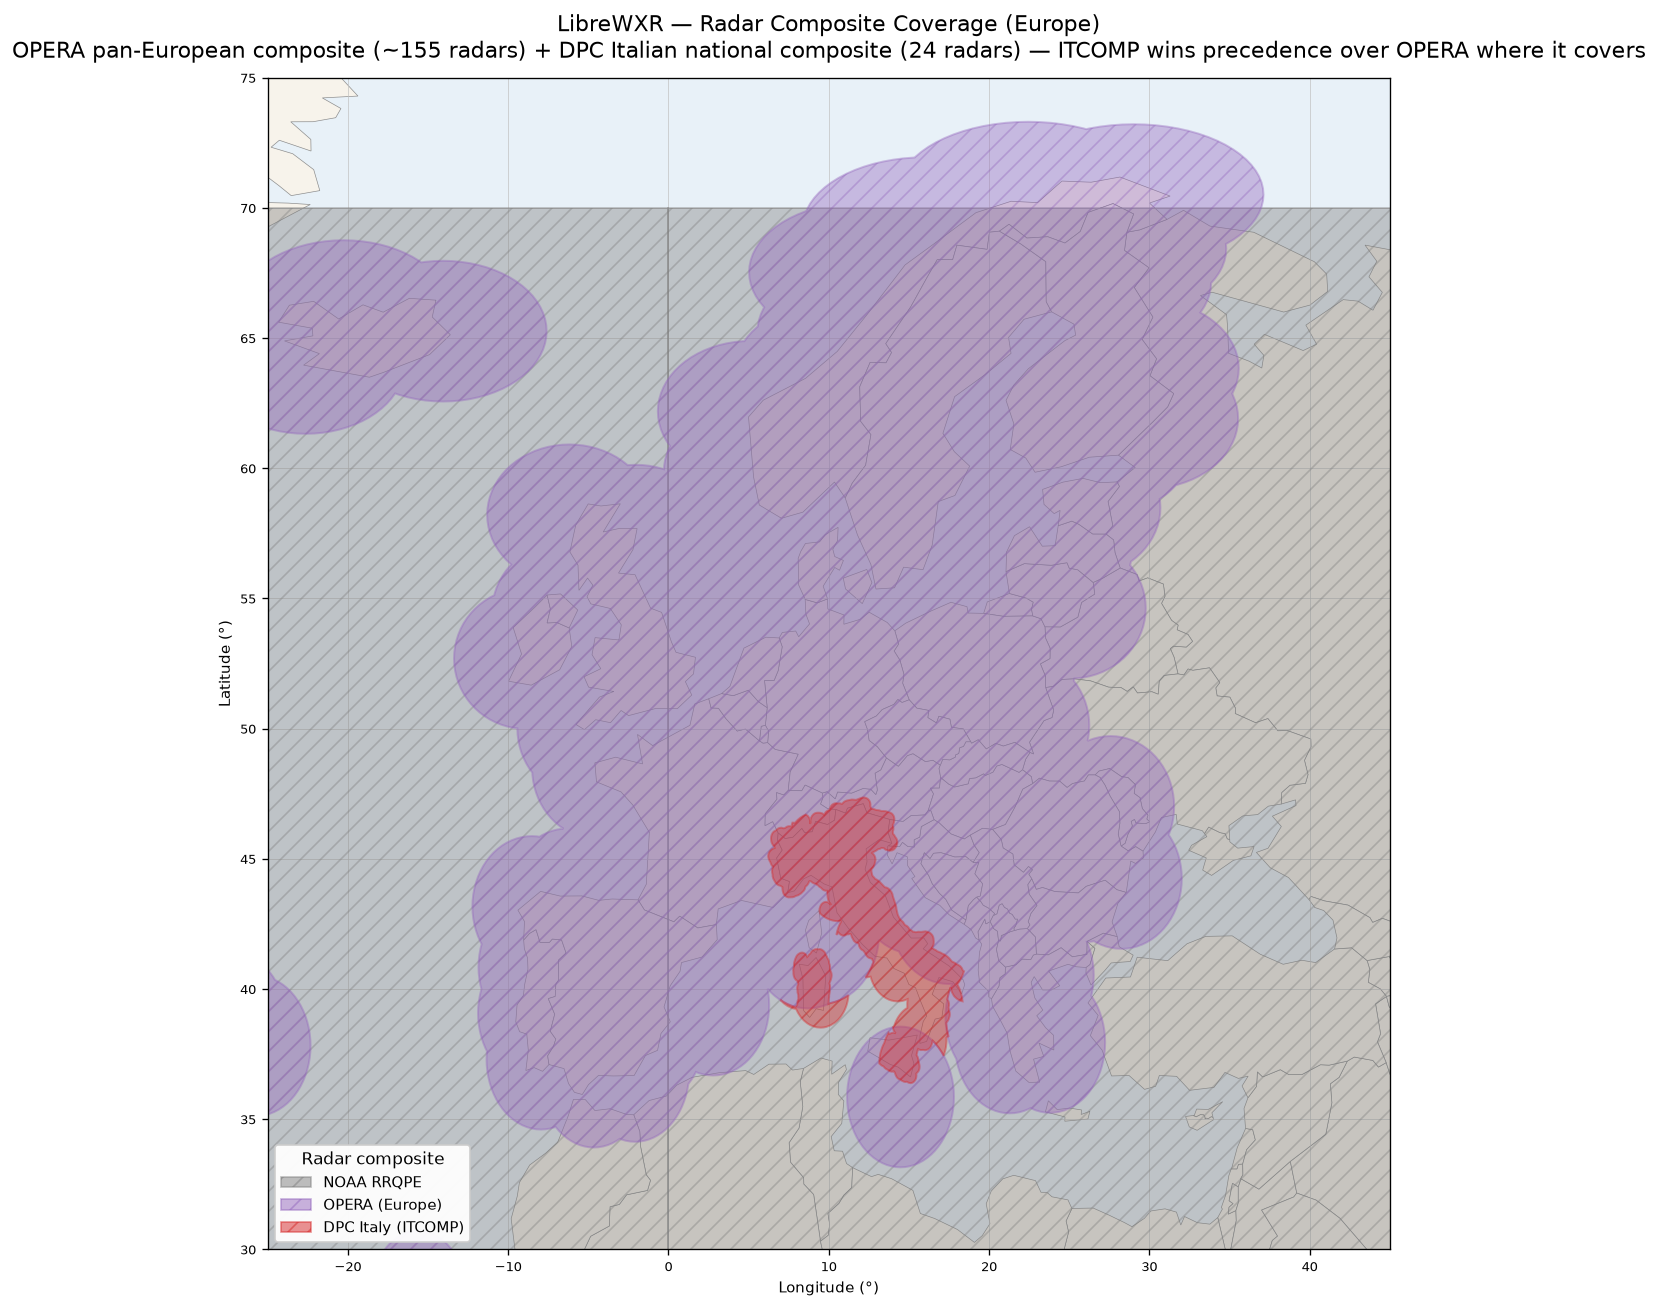
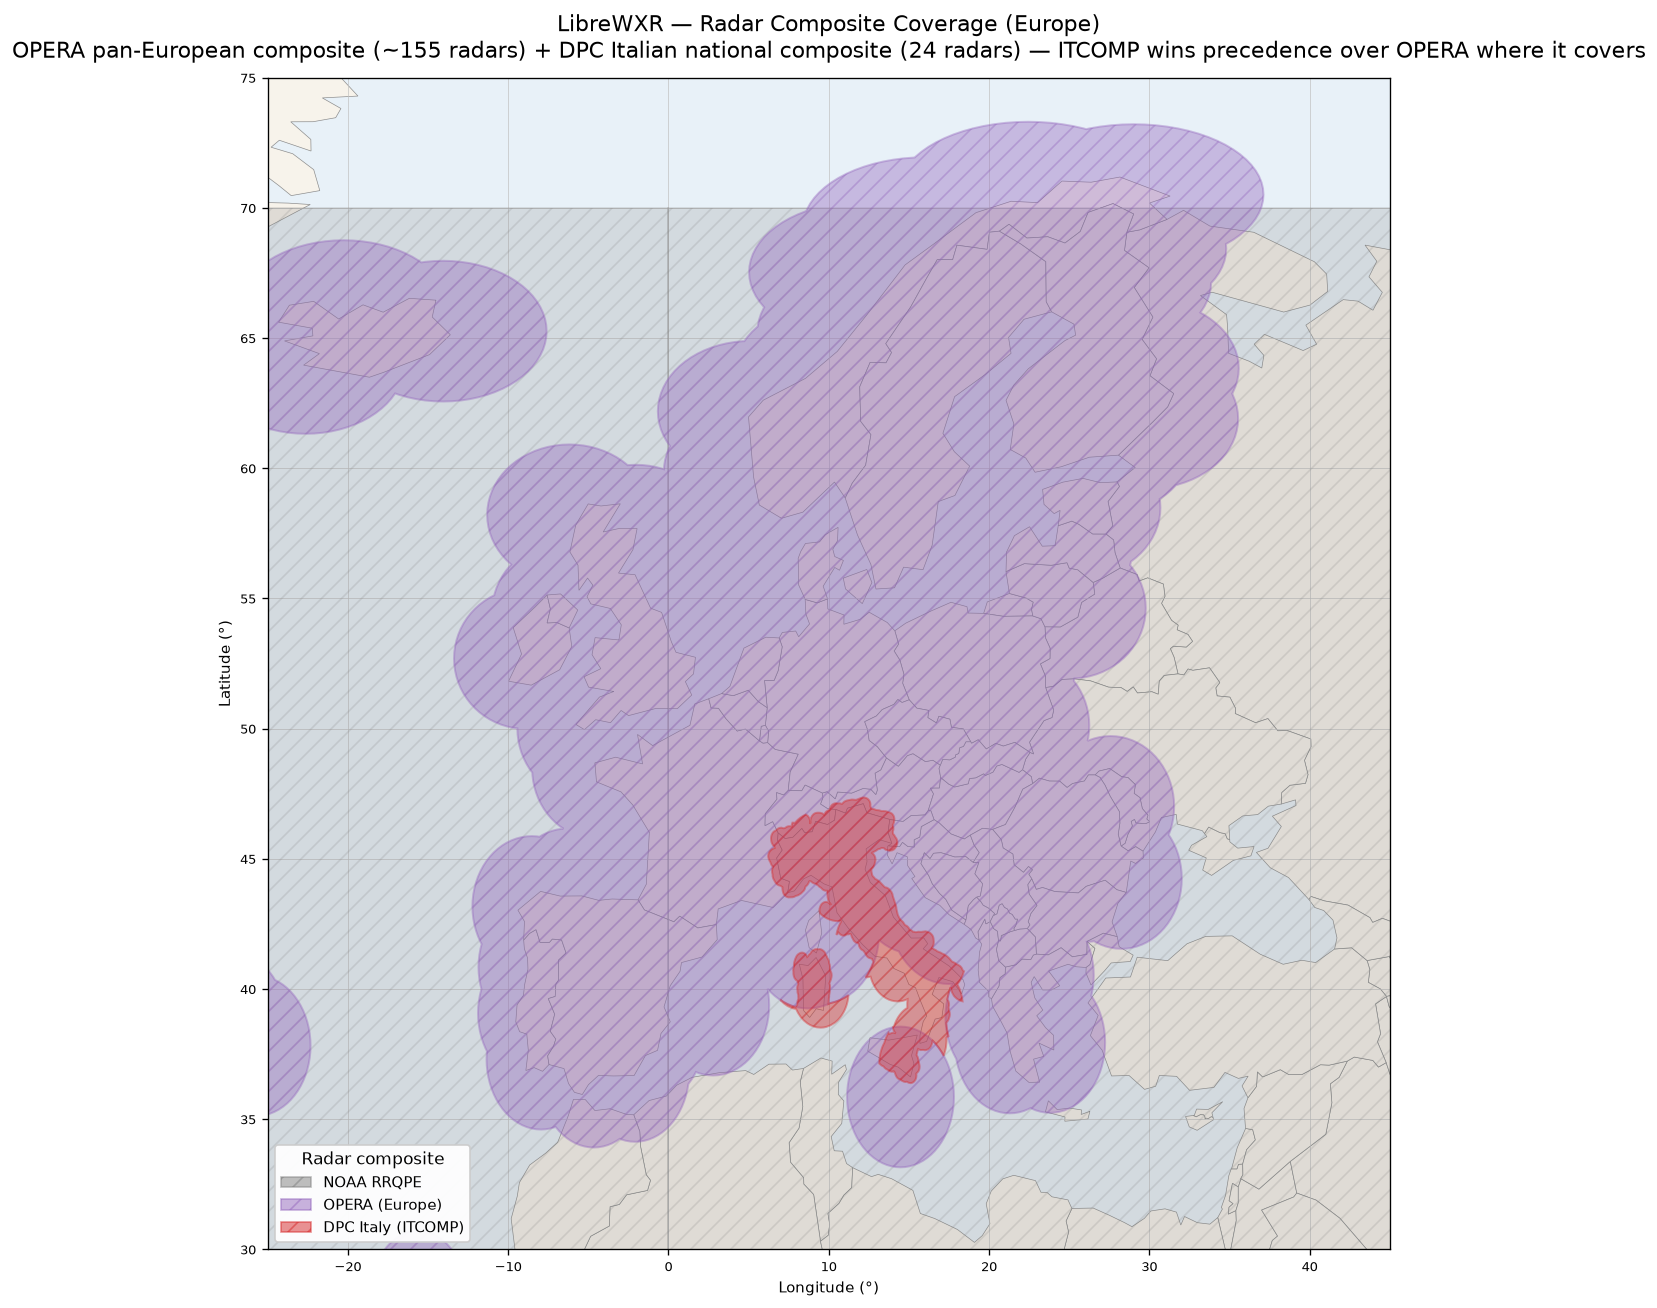
Mute RRQPE band on radar coverage maps
Add per-source fill/legend alpha overrides to the coverage map script and drop the RRQPE global band to a 0.20 fill with a 0.50 legend swatch, so the always-on observed tier reads as a subtle backdrop instead of overpowering the regional radar polygons drawn above it.

Changed region(s): [[0.1539, 0.1529, 0.831, 0.948]]

diff --git a/scripts/generate_coverage_map.py b/scripts/generate_coverage_map.py
@@ -138,6 +138,8 @@ class Source:
     label: str
     color: str
     polygon: np.ndarray  # shape (N, 2), [lon, lat]
+    alpha: float | None = None  # per-source fill alpha override (None = render()'s alpha_fill)
+    legend_alpha: float | None = None  # per-source legend swatch override (None = derived from alpha)
 
 
 def project_grid_perimeter(
@@ -316,13 +318,25 @@ def build_radar_sources() -> list[Source]:
     # Rain Rate GLB-5 blend) ingested as a single coarse global radar
     # region on a 60S-70N band at all longitudes; the always-on bottom
     # compositing tier beneath every finer radar composite.  The band is
-    # split into two half-world boxes at the ±180° seam — a single
+    # split into two half-world boxes at the -180/+180 seam — a single
     # -180..180 ring collapses to a degenerate line under the renderer's
     # antimeridian unwrap.  The two pieces share one label so the legend
-    # shows a single entry.
+    # shows a single entry.  Both pieces are appended first, and list
+    # order is draw order here (uniform zorder=2, no sorting), so the
+    # band always renders beneath every radar polygon.  Its low fill
+    # alpha keeps it a muted backdrop tier — darkening open-ocean
+    # regions just enough to read as the always-on global band without
+    # overpowering the regional sources drawn on top; the legend swatch
+    # keeps a separate, readable alpha.
     rrqpe_color = "#7f7f7f"
-    radar.append(Source("NOAA RRQPE", rrqpe_color, latlon_box(-180, 0, -60, 70)))
-    radar.append(Source("NOAA RRQPE", rrqpe_color, latlon_box(0, 180, -60, 70)))
+    radar.append(Source(
+        "NOAA RRQPE", rrqpe_color, latlon_box(-180, 0, -60, 70),
+        alpha=0.20, legend_alpha=0.50,
+    ))
+    radar.append(Source(
+        "NOAA RRQPE", rrqpe_color, latlon_box(0, 180, -60, 70),
+        alpha=0.20, legend_alpha=0.50,
+    ))
 
     # MRMS — five composites sharing one upstream operator (NOAA) and
     # one legend swatch.  Each composite gets its own union polygon
@@ -665,6 +679,9 @@ def _draw_polygon(ax, src: Source, alpha_fill: float, hatch: str | None) -> None
     and the others are clipped away by matplotlib.  This avoids the
     half-closed sliver artefact you get from splitting the polygon at
     the wrap and rendering each segment separately.
+
+    A source with its own ``alpha`` override (e.g. the muted RRQPE
+    backdrop band) is drawn at that alpha instead of ``alpha_fill``.
     """
     poly = src.polygon
     if poly.shape[0] < 3:
@@ -679,7 +696,8 @@ def _draw_polygon(ax, src: Source, alpha_fill: float, hatch: str | None) -> None
         ax.fill(
             shifted_lon, lat,
             facecolor=src.color, edgecolor=src.color,
-            alpha=alpha_fill, linewidth=1.2,
+            alpha=src.alpha if src.alpha is not None else alpha_fill,
+            linewidth=1.2,
             hatch=hatch, zorder=2,
         )
 
@@ -757,7 +775,12 @@ def render(
             label = f"{key} ({len(distinct)} composites)"
         handles.append(Patch(
             facecolor=s.color, edgecolor=s.color,
-            alpha=min(0.95, alpha_fill + 0.10), hatch=hatch,
+            alpha=(
+                s.legend_alpha
+                if s.legend_alpha is not None
+                else min(0.95, (s.alpha if s.alpha is not None else alpha_fill) + 0.10)
+            ),
+            hatch=hatch,
             label=label,
         ))
     ax.legend(
